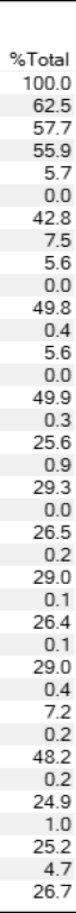
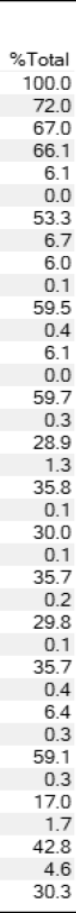
Ulepszenie algorytmu sprawdzania danych w 3 i 4 kolumnie

diff --git a/text_to_table.py b/text_to_table.py
@@ -61,7 +61,7 @@ def odczytaj_tekst_ze_zdjecia(sciezka) -> str:
     wyostrzony = cv2.GaussianBlur(powiekszony, (0, 0), 3)
     wyostrzony = cv2.addWeighted(powiekszony, 1.5, wyostrzony, -0.5, 0)
 
-    # Podzielić na 4 kolumny
+    # Dzielenie na 4 kolumny
     os.makedirs("pociete", exist_ok=True)
     dane = pytesseract.image_to_data(powiekszony, output_type=pytesseract.Output.DICT)
     etykiety = ["#Events", "%Parent", "%Total"]
@@ -77,7 +77,7 @@ def odczytaj_tekst_ze_zdjecia(sciezka) -> str:
             # Wyodrębnianie prostokąta na pełną wysokość obrazu
             roi = powiekszony[y : y + h, x - 10 : x + w + 8]
             szerokosci += w + 20
-            # Zapisz wycięty prostokąt
+            # Zapis wyciętego prostokąta
             cv2.imwrite(f'pociete/{dane["text"][i]}.png', roi)
     roi2 = powiekszony[0 : powiekszony.shape[0], 0 : powiekszony.shape[1] - szerokosci]
     cv2.imwrite(f"pociete/Nazwy.png", roi2)
@@ -98,6 +98,7 @@ def odczytaj_tekst_ze_zdjecia(sciezka) -> str:
     tekst[2].insert(0, "")  # Dla %Parent
     tekst[3].insert(0, "")  # Dla %Total
 
+    # czyszczenie danych
     for i in range(len(tekst[0])):
         try:
             wartość = str(tekst[0][i])
@@ -109,18 +110,17 @@ def odczytaj_tekst_ze_zdjecia(sciezka) -> str:
     for kolumna in [2, 3]:
         for i in range(len(tekst[kolumna])):
             try:
-                wartość = str(tekst[kolumna][i])
+                wartość_str:str = str(tekst[kolumna][i])
+                wartość_f: float = float(tekst[kolumna][i])
 
-                if wartość[0] == "0" and wartość[1] != ".":
-                    tekst[kolumna][i] = str(float(wartość) / 10)
+                if wartość_str[-2] != ".":
+                    tekst[kolumna][i] = str(float(wartość_f) / 10)
 
-                wartość = float(tekst[kolumna][i])
+                if wartość_f > 100:
+                    tekst[kolumna][i] = str(wartość_f / 10)
 
-                if wartość > 100:
-                    tekst[kolumna][i] = str(wartość / 10)
-
-                if kolumna == 3 and wartość > float(tekst[2][i]):
-                    tekst[kolumna][i] = str(wartość / 10)
+                if kolumna == 3 and wartość_f > float(tekst[2][i]):
+                    tekst[kolumna][i] = str(wartość_f / 10)
             except (ValueError, IndexError):
                 pass
 
@@ -129,7 +129,7 @@ def odczytaj_tekst_ze_zdjecia(sciezka) -> str:
         df = pd.DataFrame(
             {
                 "Nazwy": tekst[0],  # Zawiera nazwy
-                "#Eve434nts": tekst[1],  # Zawiera #Events
+                "#Eve434nts": tekst[1],  # Zawiera #EventsS
                 "%Parent": tekst[2],  # Zawiera %Parent
                 "%Total": tekst[3],  # Zawiera %Total
             }
@@ -169,7 +169,7 @@ def main_multi(folder_zrodlowy, folder_dla_wynikow):
             nazwa_arkusza = os.path.splitext(zdjecie)[0]
             arkusze[nazwa_arkusza] = df
 
-    timestamp = datetime.now().strftime("%Y_%m_%d_%H:%M")
+    timestamp = datetime.now().strftime("%Y-%m-%d %H.%M")
     nazwa_pliku_xlsx = os.path.join(folder_dla_wynikow, f"wyniki-{timestamp}.xlsx")
     with pd.ExcelWriter(nazwa_pliku_xlsx, engine="xlsxwriter") as writer:
         for nazwa_arkusza, df in arkusze.items():  # Teraz mamy df, nie ścieżkę do CSV
